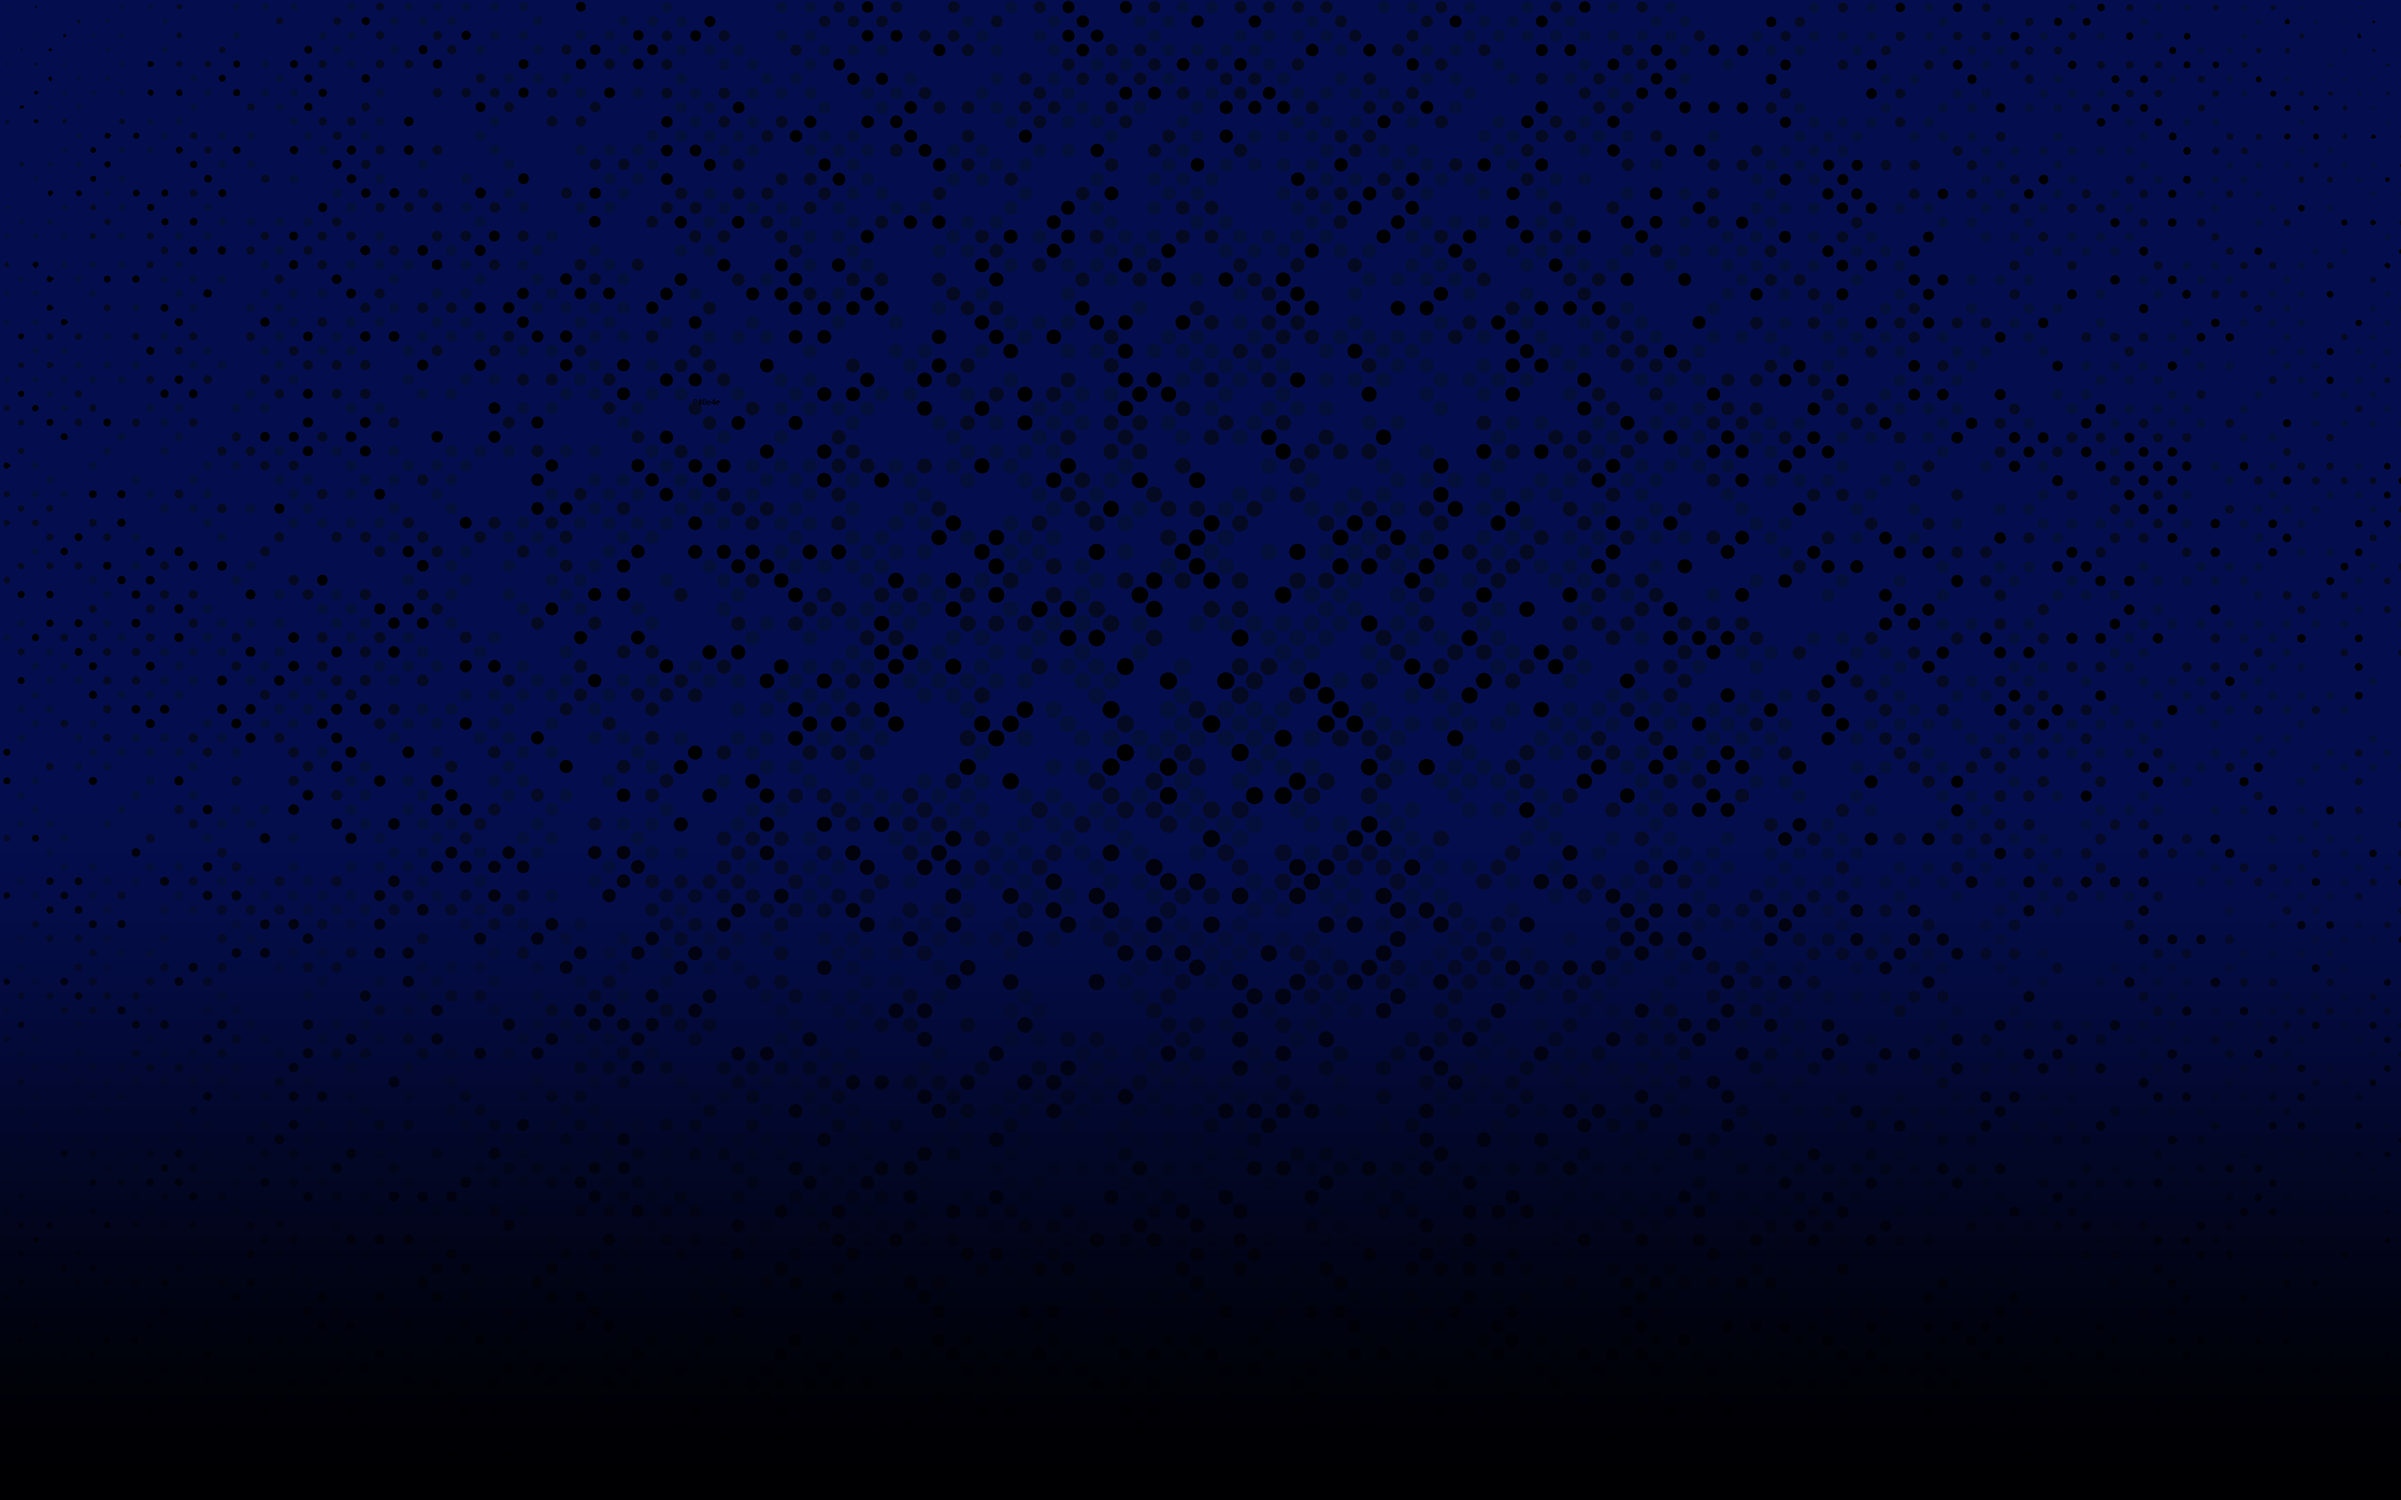
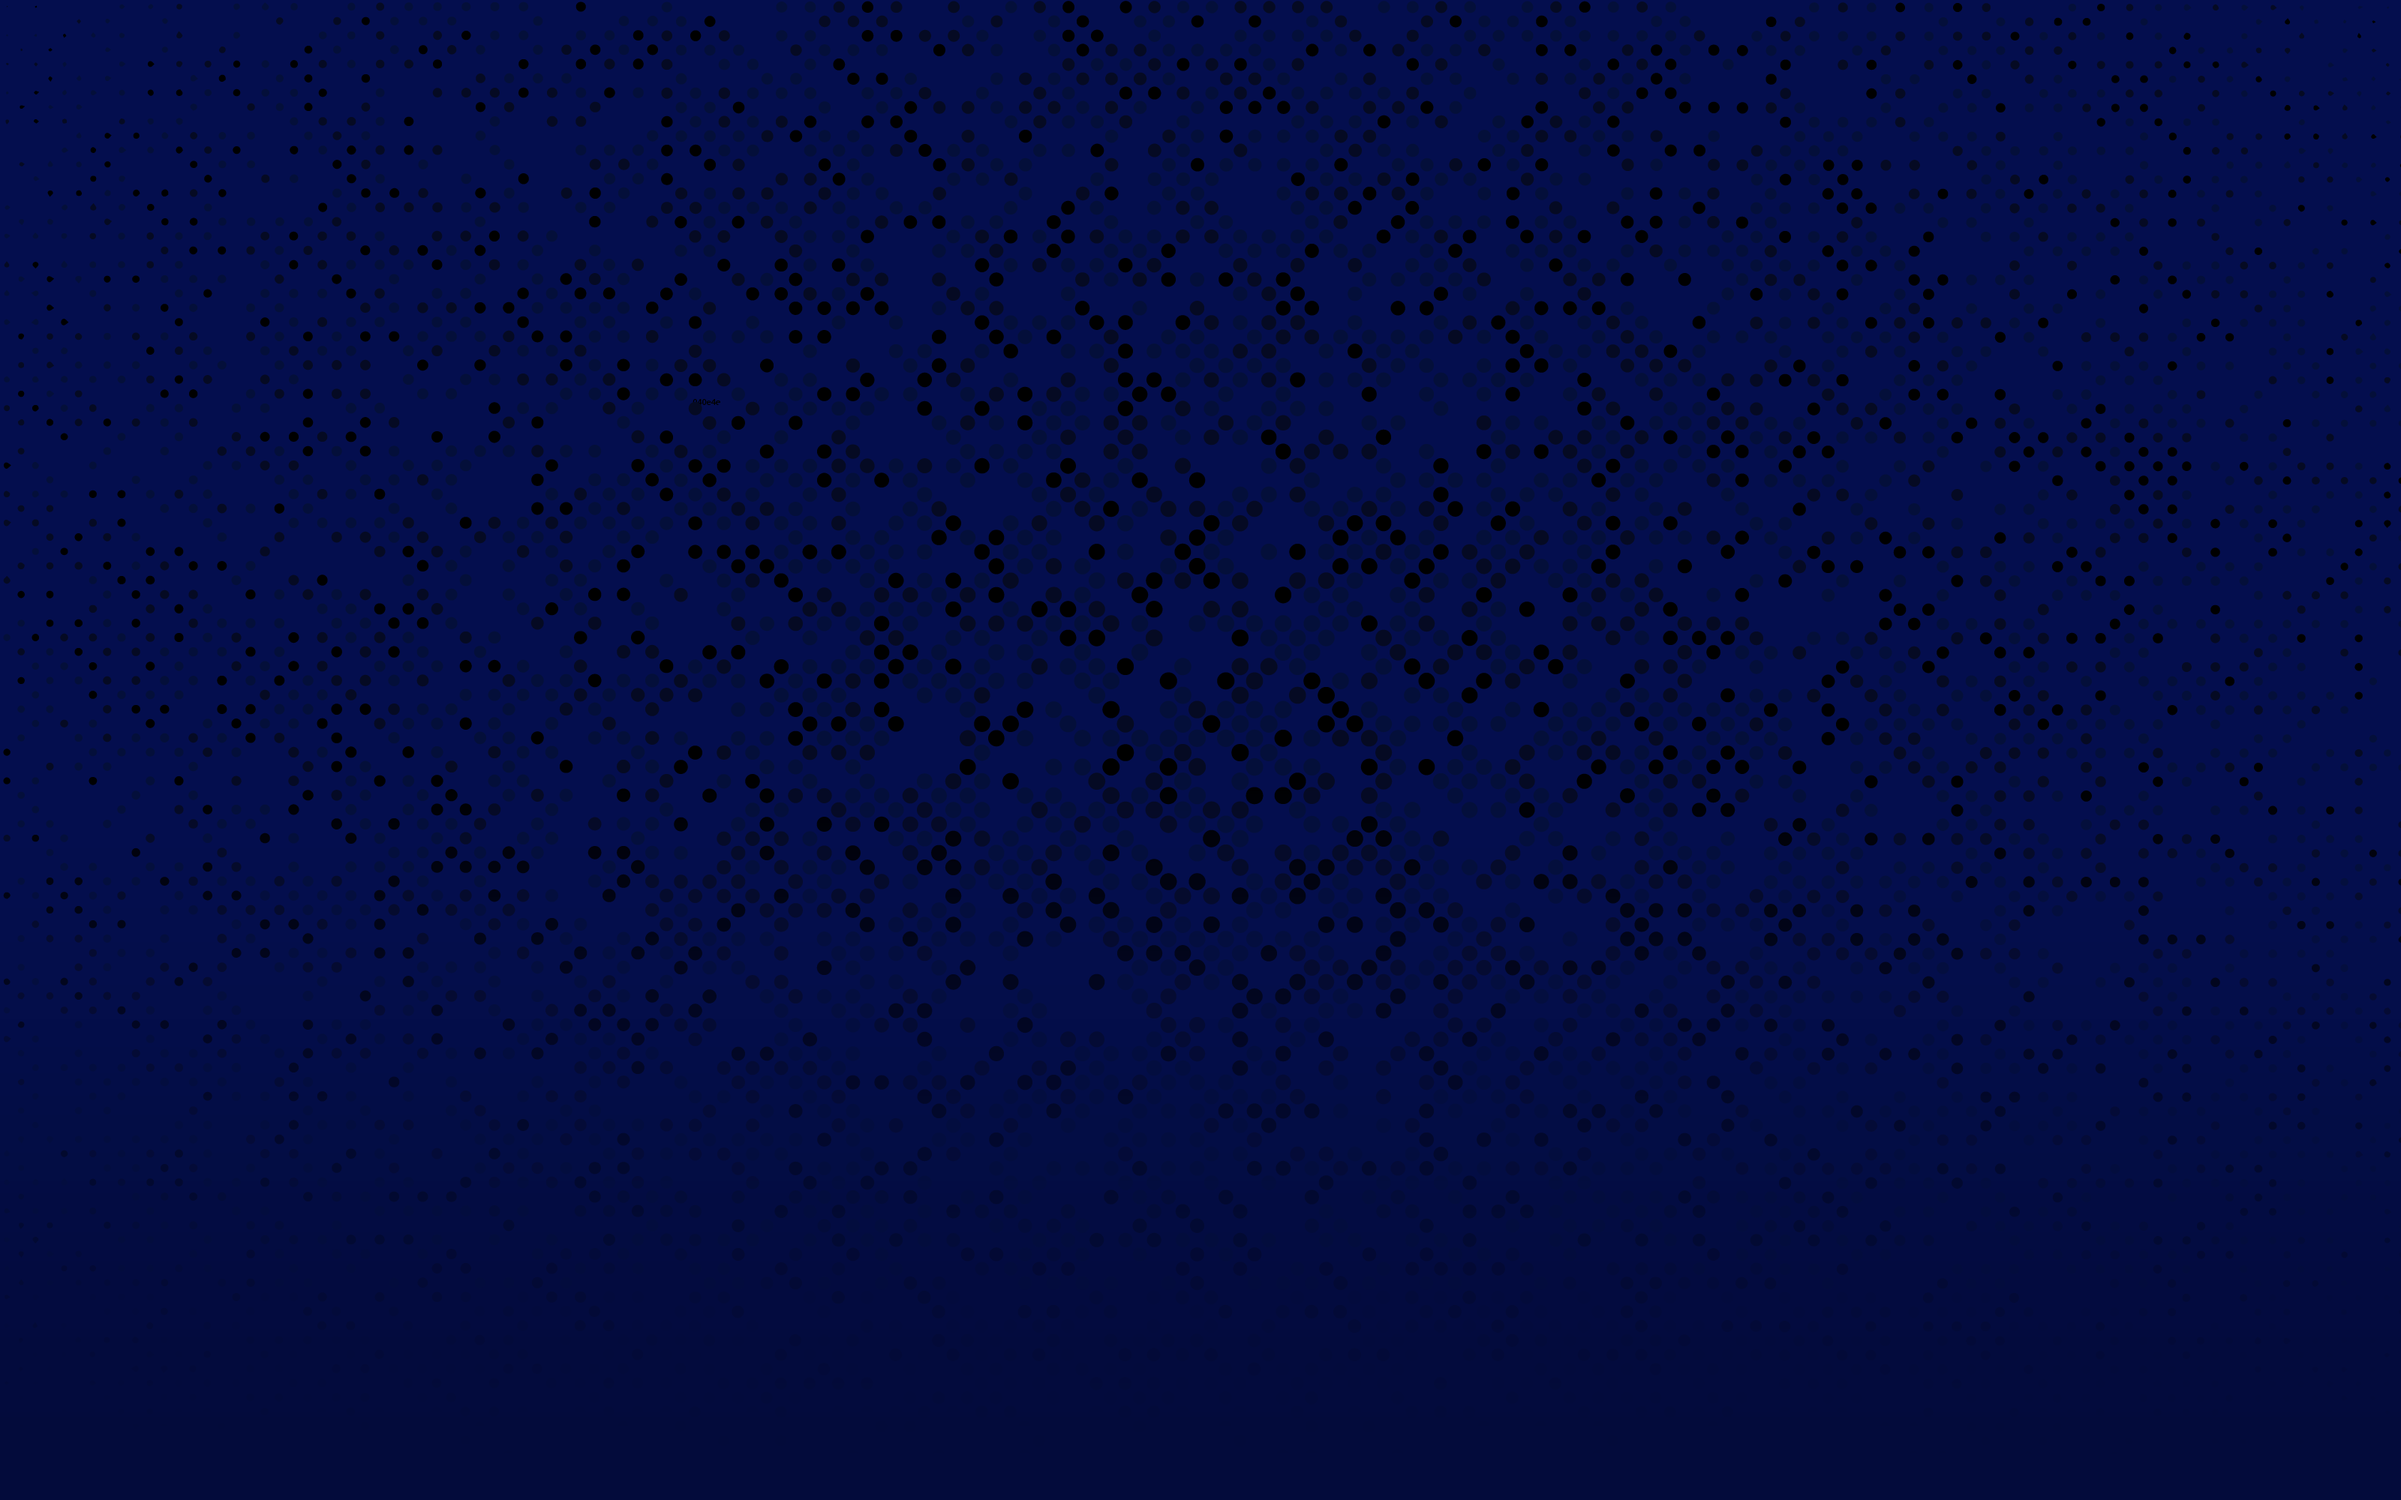
core

Changed region(s): [[0.0, 0.713, 1.0, 1.0]]

diff --git a/assets/style.css b/assets/style.css
@@ -422,7 +422,7 @@ main .sec-2 .map .point path {
 }
 
 main .sec-3 {
-  background-color: black;
+  background-color: #030b3b;
   background-size: cover;
   position: relative;
   overflow-y: hidden;
@@ -433,7 +433,7 @@ main .sec-3 {
 
 main .sec-3 .cube {
   position: relative;
-  color: #1d262d;
+  color: #00020c;
   width: 80%;
   height: 500px;
 }
@@ -562,7 +562,7 @@ main .what-we-do .companies {
 
 main .what-we-do .companies .call-in:after {
   position: absolute;
-  color: #1d262d;
+  color: #00020c;
   content: 'click me';
   border-radius: 500px;
   z-index: 999;
@@ -994,7 +994,7 @@ main .what-we-do .sapianCapital-page a:hover {
 }
 
 main .what-we-do .ollorun-page {
-  color: #1d262d;
+  color: #00020c;
   position: absolute;
   top: 0;
   left: 0;
@@ -1174,7 +1174,7 @@ main .workflow {
   padding: 5% 0;
   background-color: #fff;
   font-size: 18px;
-  color: #1d262d;
+  color: #111;
 }
 
 main .workflow img {
@@ -1238,10 +1238,101 @@ main .workflow img {
   }
 }
 
+.core {
+  overflow: hidden;
+  position: relative;
+  width: 100%;
+  height: 70vh;
+  background-color: #010418;
+}
+
+.core div {
+  position: absolute;
+  top: 0;
+  left: 0;
+  right: 0;
+  bottom: 0;
+  margin: auto auto;
+}
+
+.core .layer-1 {
+  z-index: 3;
+  width: 17rem;
+  height: 17rem;
+  background-color: #030b3b;
+  border-radius: 500px;
+}
+
+.core .layer-2 {
+  z-index: 2;
+  width: 20rem;
+  height: 20rem;
+  background-color: #040e4e;
+  border-radius: 500px;
+}
+
+.core .layer-3 {
+  z-index: 1;
+  width: 22rem;
+  height: 22rem;
+  background-color: #205cff;
+  border-radius: 500px;
+}
+
+.core .glow {
+  width: 5rem;
+  height: 5rem;
+  border-radius: 500px;
+  -webkit-box-shadow: 0 0 75px 50px rgba(4, 14, 78, 0.5);
+          box-shadow: 0 0 75px 50px rgba(4, 14, 78, 0.5);
+  -webkit-animation: glow 3s ease-in-out infinite;
+          animation: glow 3s ease-in-out infinite;
+}
+
+@-webkit-keyframes glow {
+  0% {
+    -webkit-box-shadow: 0 0 15px 50px rgba(32, 92, 255, 0);
+            box-shadow: 0 0 15px 50px rgba(32, 92, 255, 0);
+  }
+  50% {
+    -webkit-box-shadow: 0 0 75px 50px rgba(32, 92, 255, 0.2);
+            box-shadow: 0 0 75px 50px rgba(32, 92, 255, 0.2);
+  }
+  100% {
+    -webkit-box-shadow: 0 0 15px 50px rgba(32, 92, 255, 0);
+            box-shadow: 0 0 15px 50px rgba(32, 92, 255, 0);
+  }
+}
+
+@keyframes glow {
+  0% {
+    -webkit-box-shadow: 0 0 15px 50px rgba(32, 92, 255, 0);
+            box-shadow: 0 0 15px 50px rgba(32, 92, 255, 0);
+  }
+  50% {
+    -webkit-box-shadow: 0 0 75px 50px rgba(32, 92, 255, 0.2);
+            box-shadow: 0 0 75px 50px rgba(32, 92, 255, 0.2);
+  }
+  100% {
+    -webkit-box-shadow: 0 0 15px 50px rgba(32, 92, 255, 0);
+            box-shadow: 0 0 15px 50px rgba(32, 92, 255, 0);
+  }
+}
+
+.core .core-div {
+  z-index: 99;
+  width: 15rem;
+  height: 15rem;
+}
+
+.core img {
+  width: 100%;
+}
+
 .footer {
   position: relative;
   z-index: 999;
-  background-color: #040820;
+  background-color: #00020c;
   width: 100%;
   height: 50vh;
   color: white;

diff --git a/assets/style.scss b/assets/style.scss
@@ -4,7 +4,11 @@ $accent: #205cff;
 $accentDark: #040e4e;
 $bgColor: #fff;
 $bgDark: #040820;
-$footer: #1d262d;
+
+$sec3: #030b3b;
+$workflow: #fff;
+$core: #010418;
+$footer: #00020c;
 
 // 003ee7
 :root {
@@ -343,7 +347,7 @@ main {
     .sec-3 {
         // padding: 2rem 0;
         // background: url('img/bg-test-2.png') no-repeat;
-        background-color: black;
+        background-color: $sec3;
         background-size: cover;
         position: relative;
         overflow-y: hidden;
@@ -465,6 +469,7 @@ main {
 
         .companies {
             perspective: 1000;
+
             // position: relative;
             .call-in {
                 &:after {
@@ -963,9 +968,9 @@ main {
         position: relative;
         z-index: 999;
         padding: 5% 0;
-        background-color: #fff;
+        background-color: $workflow;
         font-size: 18px;
-        color: $footer;
+        color: #111;
 
         img {
             animation: world 6s infinite;
@@ -1005,10 +1010,85 @@ main {
 //     font-size: clamp(1rem, 1.25vw, 1.25rem);
 // }
 
+
+.core {
+    overflow: hidden;
+    position: relative;
+    width: 100%;
+    height: 70vh;
+    background-color: $core;
+
+    div {
+        position: absolute;
+        top: 0;
+        left: 0;
+        right: 0;
+        bottom: 0;
+        margin: auto auto;
+    }
+
+    .layer-1{
+        z-index: 3;
+        width: 17rem;
+        height: 17rem;
+        background-color: $sec3;
+        border-radius: 500px;
+    }
+
+    .layer-2{
+        z-index: 2;
+        width: 20rem;
+        height: 20rem;
+        background-color: $accentDark;
+        border-radius: 500px;
+    }
+
+    .layer-3{
+        z-index: 1;
+        width: 22rem;
+        height: 22rem;
+        background-color: $accent;
+        border-radius: 500px;
+    }
+
+    .glow {
+        width: 5rem;
+        height: 5rem;
+        border-radius: 500px;
+        box-shadow: 0 0 75px 50px rgba($color: $accentDark, $alpha: 0.5);
+        animation: glow 3s ease-in-out infinite;
+
+        @keyframes glow {
+            0% {
+                box-shadow: 0 0 15px 50px rgba($color: $accent, $alpha: 0);
+            }
+
+            50% {
+                box-shadow: 0 0 75px 50px rgba($color: $accent, $alpha: 0.2);
+            }
+
+            100% {
+                box-shadow: 0 0 15px 50px rgba($color: $accent, $alpha: 0);
+            }
+
+        }
+    }
+
+    .core-div {
+        z-index: 99;
+        width: 15rem;
+        height: 15rem;
+    }
+
+    img {
+        width: 100%;
+    }
+}
+
 .footer {
     position: relative;
     z-index: 999;
-    background-color: $bgDark;
+    background-color: $footer;
     width: 100%;
     height: 50vh;
     color: white;

diff --git a/index.html b/index.html
@@ -1448,6 +1448,17 @@
         </section>
 
 
+        <section class="core">
+            <div class="glow" data-aos="zoom-in" data-aos-duration="1500"></div>
+            <div class="layer-3" data-aos="zoom-in" data-aos-duration="1500" data-aos-delay="600"></div>
+            <div class="layer-2" data-aos="zoom-in" data-aos-duration="1500" data-aos-delay="300"></div>
+            <div class="layer-1" data-aos="zoom-in" data-aos-duration="1500"></div>
+            <div class="core-div">
+                <img data-aos="zoom-in" data-aos-duration="1500" src="assets/img/core.svg" alt="core">
+            </div>
+        </section>
+
+
         <section class="footer d-flex justify-content-center">
             <h2 class="my-auto">Footer Goes Here</h2>
         </section>
